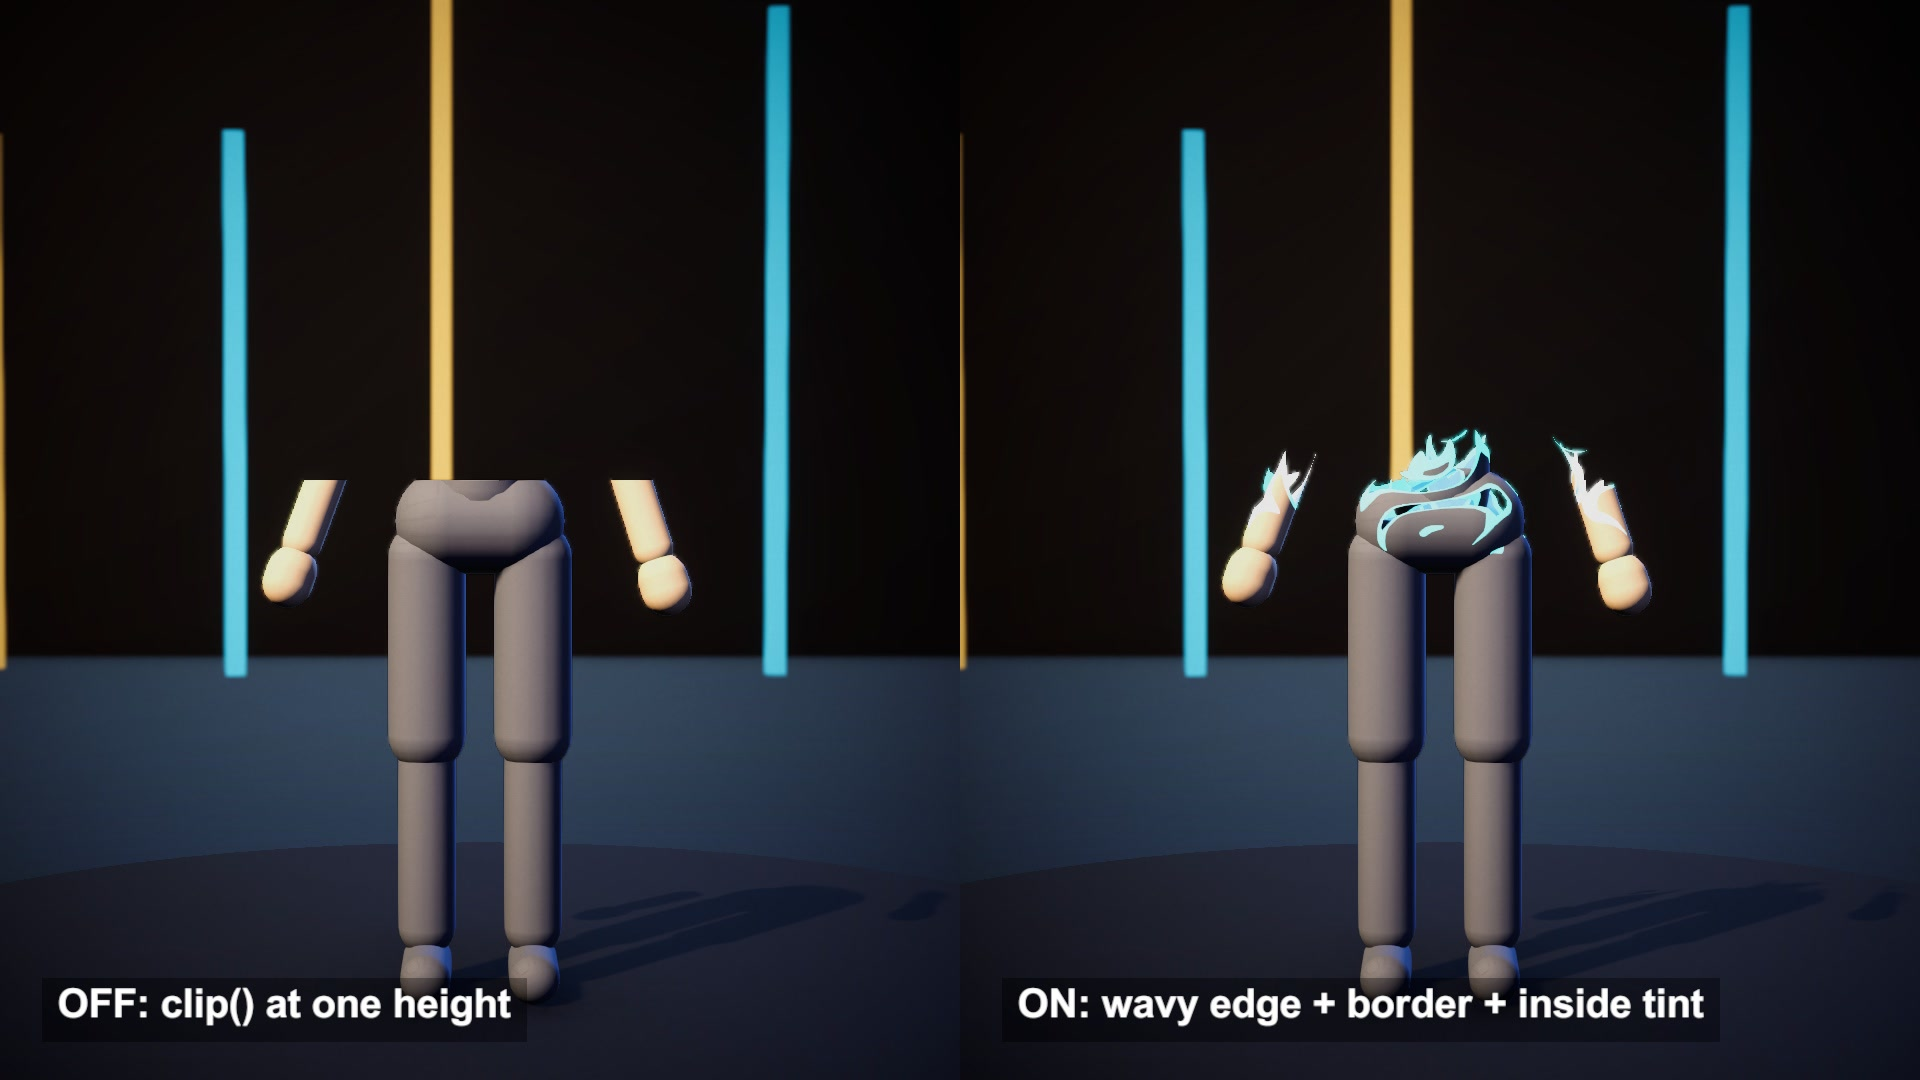
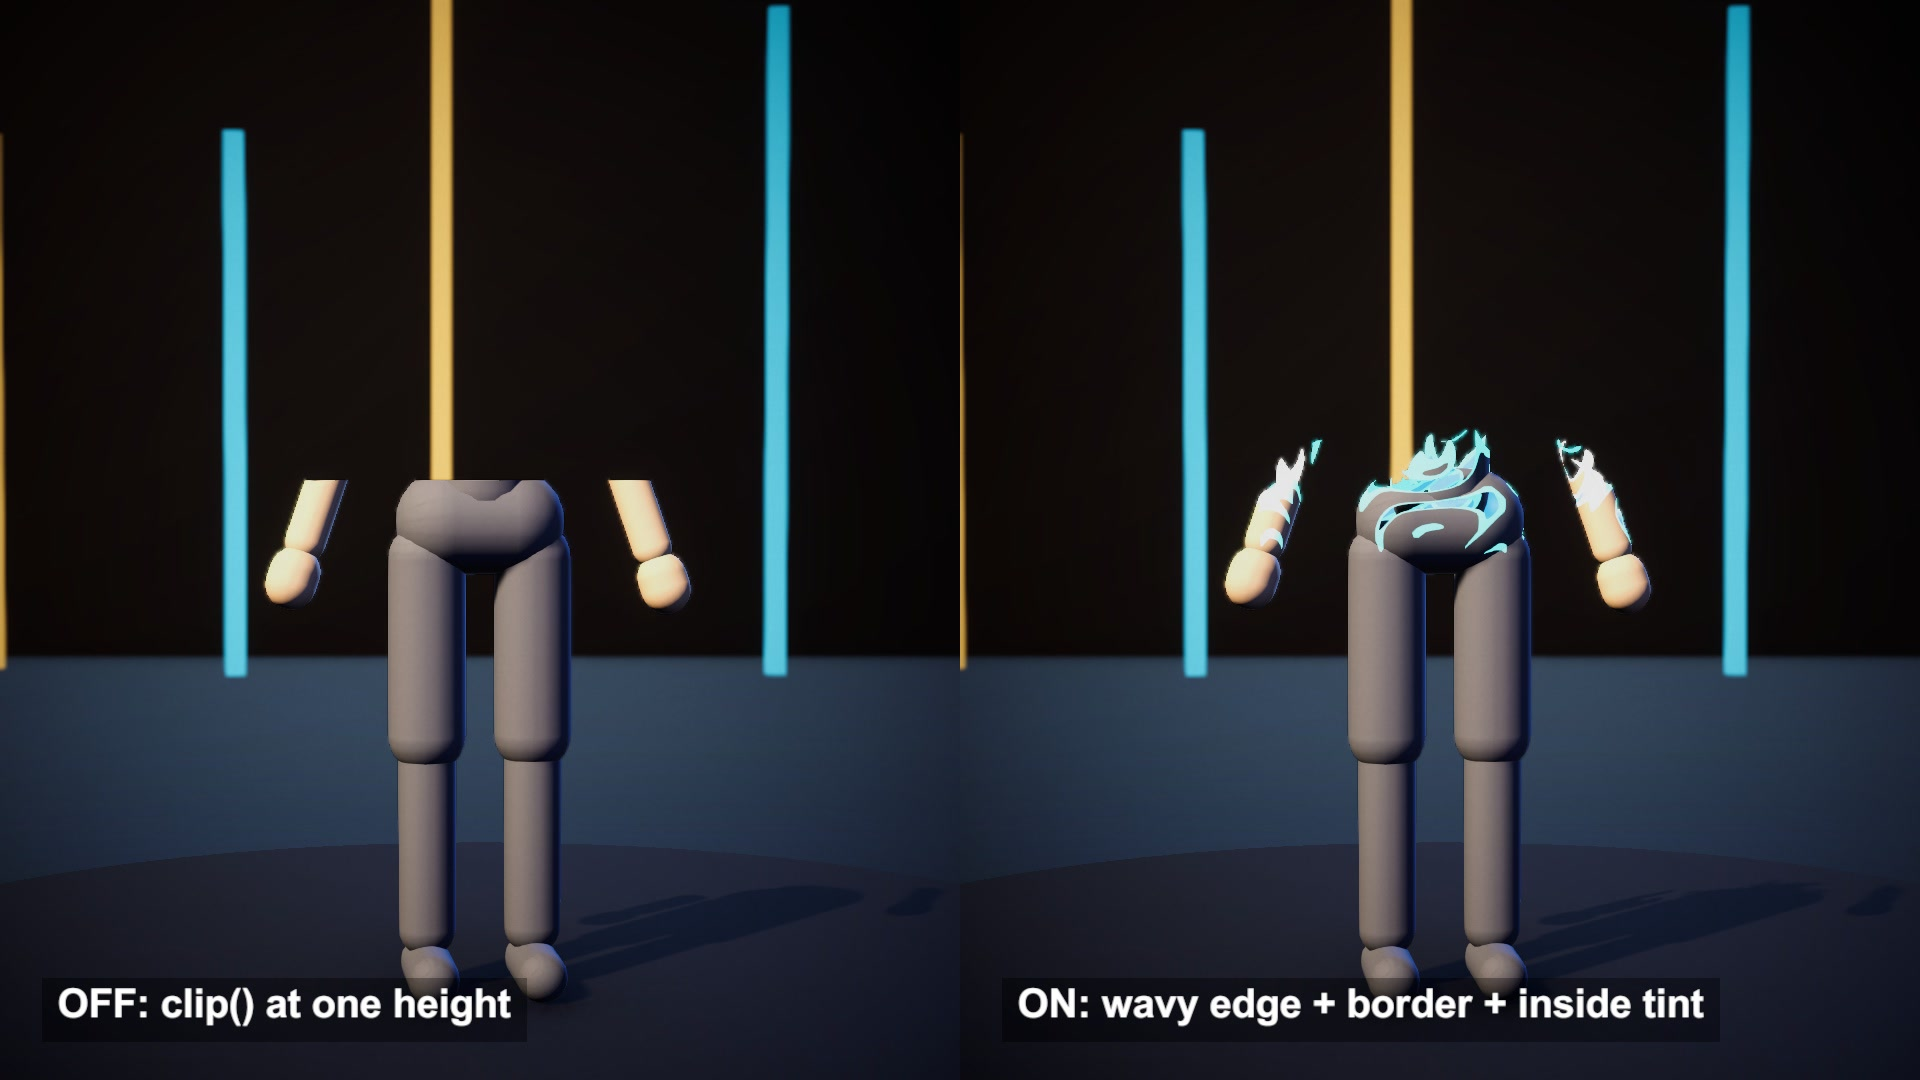
Character: keep the root's rotation, blink, scripts next to the model
- CharacterRig no longer resets the root's own rotation each frame, so a scene can turn the character at run time.
- CharacterRig drives a "Blink" blend shape when the model has one.
- CharacterKit puts the model under an empty root and adds MonoBehaviour scripts found next to the model.
- Toon and footprints scenes keep normal back-face culling on the character.
- Vertical dissolve preview re-rendered.

Claude-Session: https://claude.ai/code/session_01JnPFgAxCvboTT8zMM3xUhm

diff --git a/Assets/Shared/Character/Editor/CharacterKit.cs b/Assets/Shared/Character/Editor/CharacterKit.cs
@@ -1,6 +1,7 @@
 // Spawns the scene character with one new material per source material name, so each technique can apply its own shader.
 // Uses the first model (FBX or prefab) found in Assets/Shared/Character/Model/. That folder is not part of the repository:
-// put your own rigged character there (Humanoid rig recommended, about 1.4 m tall, T-pose). Without a model it builds
+// put your own rigged character there (Humanoid rig recommended, about 1.4 m tall, T-pose or A-pose), plus any
+// MonoBehaviour scripts made for it, which are added to the character root. Without a model it builds
 // the stand-in mannequin below, so every scene still builds and renders.
 using System.Collections.Generic;
 using UnityEditor;
@@ -59,8 +60,10 @@ namespace GameTech
                 man.AddComponent<CharacterRig>();
                 return man;
             }
-            var go = Object.Instantiate(prefab);
-            go.name = "Character";
+            // the model sits under an empty root that techniques move and turn; the imported model keeps its own transform
+            var root = new GameObject("Character");
+            var go = Object.Instantiate(prefab, root.transform, false);
+            go.name = "Model";
             var cache = new Dictionary<string, Material>();
             foreach (var r in go.GetComponentsInChildren<Renderer>(true))
             {
@@ -74,7 +77,6 @@ namespace GameTech
                         var tex = TextureFor(src[i], name);
                         if (tex != null) m.SetTexture("_BaseMap", tex);
                         m.SetColor("_BaseColor", Color.white);
-                        if (m.HasProperty("_Cull")) m.SetFloat("_Cull", 0f);   // double-sided: hair and clothes show their inner side
                         setup?.Invoke(m, name);
                         AssetDatabase.CreateAsset(m, matDir + "Char_" + name.Replace('.', '_').Replace('/', '_') + ".mat");
                         cache[name] = m;
@@ -84,8 +86,16 @@ namespace GameTech
                 r.sharedMaterials = dst;
                 if (r is SkinnedMeshRenderer s) s.updateWhenOffscreen = true;
             }
-            go.AddComponent<CharacterRig>();
-            return go;
+            root.AddComponent<CharacterRig>();
+            // scripts placed next to the model (for example a hair simulation made for it) go on the character root
+            foreach (var guid in AssetDatabase.FindAssets("t:MonoScript", new[] { ModelDir }))
+            {
+                var type = AssetDatabase.LoadAssetAtPath<MonoScript>(AssetDatabase.GUIDToAssetPath(guid))?.GetClass();
+                if (type == null || type.IsAbstract || !typeof(MonoBehaviour).IsAssignableFrom(type)) continue;
+                root.AddComponent(type);
+                Debug.Log("[gt] character script added: " + type.Name);
+            }
+            return root;
         }
     }
 }

diff --git a/Assets/Shared/Character/CharacterRig.cs b/Assets/Shared/Character/CharacterRig.cs
@@ -12,6 +12,9 @@ namespace GameTech
         public float armDown = 72f;
         public bool autoArmDown = true;   // set armDown from the bind pose so the arms end about 18 degrees out from vertical
         public bool idle = true;
+        public bool blink = true;          // drives a blend shape named "Blink" (0 open, 100 closed) if the model has one
+        SkinnedMeshRenderer blinkMesh; int blinkShape = -1; float nextBlink = 1.5f;
+        readonly System.Random blinkRng = new System.Random(7);   // fixed seed: the same blinks on every render
         readonly Dictionary<string, Transform> bones = new Dictionary<string, Transform>();
         readonly Dictionary<Transform, Quaternion> bind = new Dictionary<Transform, Quaternion>();
 
@@ -32,11 +35,13 @@ namespace GameTech
             foreach (var t in GetComponentsInChildren<Transform>(true))
             {
                 if (!bones.ContainsKey(t.name)) bones[t.name] = t;
-                bind[t] = t.localRotation;
+                if (t != transform) bind[t] = t.localRotation;   // never reset the root: techniques move and turn it
             }
             var anim = GetComponentInChildren<Animator>();
             if (anim != null && anim.isHuman)
                 foreach (var kv in Human) { var b = anim.GetBoneTransform(kv.Value); if (b != null) bones[kv.Key] = b; }
+            foreach (var smr in GetComponentsInChildren<SkinnedMeshRenderer>(true))
+                if (smr.sharedMesh != null && smr.sharedMesh.GetBlendShapeIndex("Blink") >= 0) { blinkMesh = smr; blinkShape = smr.sharedMesh.GetBlendShapeIndex("Blink"); break; }
             var up = Bone("Upperarm_L"); var low = Bone("Lowerarm_L");
             if (autoArmDown && up != null && low != null)
                 armDown = Vector3.Angle(low.position - up.position, -transform.up) - 18f;   // T-pose: 72, A-pose 8 degrees out: -10
@@ -58,10 +63,19 @@ namespace GameTech
             Turn("Lowerarm_L", -12f, Vector3.right); Turn("Lowerarm_R", -12f, Vector3.right);
         }
 
+        // blink now (the eyes close for 0.1 s); otherwise blinks come every 2.5 to 6 s
+        public void Blink() { nextBlink = FrameCapturer.T; }
+
         void LateUpdate()
         {
-            if (!idle) return;
             float t = FrameCapturer.T;
+            if (blinkShape >= 0)
+            {
+                if (t >= nextBlink + 0.1f) nextBlink = t + 2.5f + (float)blinkRng.NextDouble() * 3.5f;
+                // on/off, no fade: the lids are hidden inside the head when open
+                blinkMesh.SetBlendShapeWeight(blinkShape, blink && t >= nextBlink && t < nextBlink + 0.1f ? 100f : 0f);
+            }
+            if (!idle) return;
             ResetPose();
             ArmsDown(Mathf.Sin(t * 0.9f) * 1.5f, Mathf.Sin(t * 0.9f + 1f) * 1.5f);
             Turn("Spine", Mathf.Sin(t * 0.7f) * 1.2f, Vector3.forward);

diff --git a/Assets/Techniques/dynamic-footprints/Editor/BuildScene.cs b/Assets/Techniques/dynamic-footprints/Editor/BuildScene.cs
@@ -58,7 +58,7 @@ namespace GameTech.Posts
 
             var chr = CharacterKit.Spawn(Lit, Dir, (m, name) =>
             {
-                m.SetFloat("_Smoothness", 0.15f); m.SetFloat("_Cull", 0f);
+                m.SetFloat("_Smoothness", 0.15f);
                 if (name == "face_alpha" || name == "Halo") { m.SetFloat("_AlphaClip", 1f); m.EnableKeyword("_ALPHATEST_ON"); m.SetFloat("_Cutoff", 0.5f); m.renderQueue = 2450; }
             });
             var chrOff = Object.Instantiate(chr);

diff --git a/Assets/Techniques/toon-shader/Editor/BuildScene.cs b/Assets/Techniques/toon-shader/Editor/BuildScene.cs
@@ -140,7 +140,7 @@ namespace GameTech.Posts
             var dabs = Dabs();
             var chr = CharacterKit.Spawn(Toon, Dir, (m, name) =>
             {
-                m.SetFloat("_Cull", 0f); m.SetTexture("_DabsTex", dabs);
+                m.SetTexture("_DabsTex", dabs);
                 m.SetFloat("_SpecStrength", name.StartsWith("face") ? 0f : 1f);
                 if (name == "face_alpha" || name == "Halo") m.SetFloat("_Cutoff", 0.5f);
             });

diff --git a/README.md b/README.md
@@ -53,7 +53,9 @@ Scenes marked in the Character column have a character in them. The character in
 Without a model these scenes build a simple stand-in mannequin from code (`Assets/Shared/Character/Editor/Mannequin.cs`), so they build and render as they are.
 To use your own rigged character, put one FBX or prefab in `Assets/Shared/Character/Model/` (git ignores that folder).
 The model is switched to a Humanoid rig on first use. The scenes are framed for a character about 1.4 m tall; T-pose and A-pose both work.
-`Editor/CharacterKit.cs` loads it and gives every material the technique's shader, and `CharacterRig.cs` poses it.
+`Editor/CharacterKit.cs` loads it, gives every material the technique's shader and puts it under an empty root that the scenes move and turn.
+MonoBehaviour scripts you place next to the model (a hair simulation, for example) are added to that root.
+`CharacterRig.cs` poses it, and blinks it if the model has a blend shape named `Blink` (0 open, 100 closed).
 
 ## Layout
 
